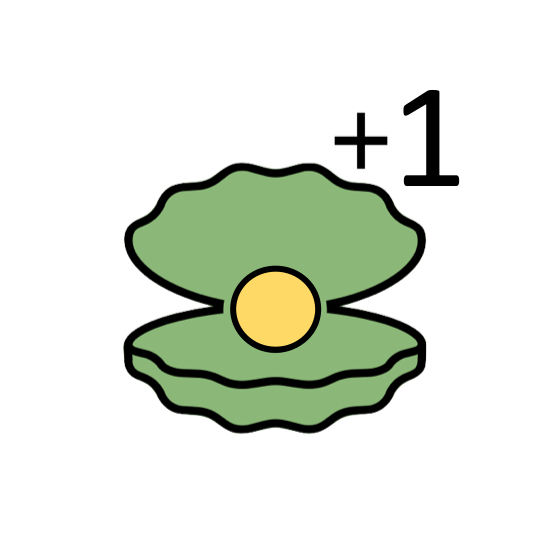
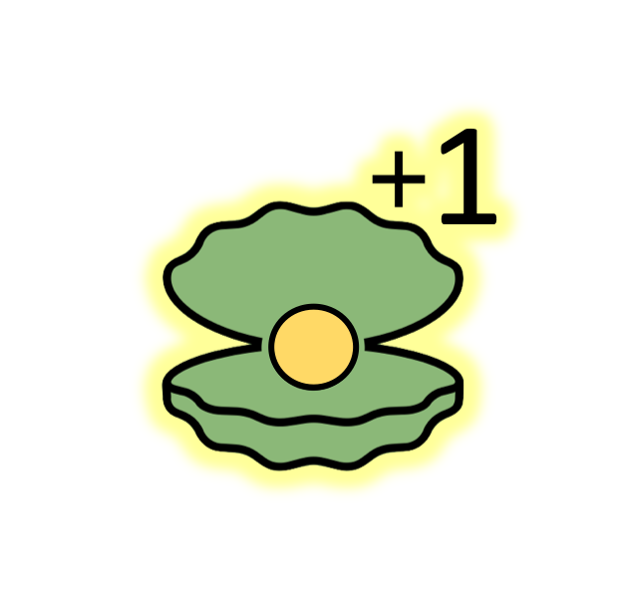
yoav_todos_3.12

Changed region(s): [[0.2133, 0.1501, 0.8226, 0.8105], [0.457, 0.4803, 0.5179, 0.5103]]

diff --git a/two-stage-decision-master/experiment.js b/two-stage-decision-master/experiment.js
@@ -1,9 +1,6 @@
-
-
 /* ************************************ */
 /* Define helper functions */
 /* ************************************ */
-
 
 var getInstructFeedback = function() {
 	return '<div class = centerbox><p class = center-block-text>' + feedback_instruct_text +
@@ -132,9 +129,13 @@ var change_phase = function() {
 /*
 Generate first stage stims. Takes in an array of images and colors (which change between practice anad test)
 */
+
+/* yoav : added 4 stimulus to cover all vartion of first stage */
 var get_fs_stim = function(images, colors) {
 	var fs_stim = [{
-		stimulus: "<img class = 'background_images' src= '" + background_Image_stage_1 +"'> </img></div>"+
+		stimulus:
+		 "<img class = 'background_images' src= '" + background_Image_stage_1 +"'> </img></div>"+
+
 			"<div class = decision-left style='background:" + colors[0] + "; '>" +
 			"<img class = 'decision-stim' src= '" + images[0] + "'></img>" +
 			"<img class = 'strategy_stim' src= '" + strategy_stim[2] +"'> </img></div>" +
@@ -144,7 +145,9 @@ var get_fs_stim = function(images, colors) {
 			"<img class = 'strategy_stim' src= '" + strategy_stim[0] +"'> </img></div>",
 		stim_order: [0, 0]
 	}, {
-		stimulus: "<img class = 'background_images' src= '" + background_Image_stage_1 +"'> </img></div>"+
+		stimulus:
+			"<img class = 'background_images' src= '" + background_Image_stage_1 +"'> </img></div>"+
+
 			"<div class = decision-left style='background:" + colors[0] + "; '>" +
 			"<img class = 'decision-stim' src= '" + images[0] + "'></img>" +
 			"<img class = 'strategy_stim' src= '" + strategy_stim[1] +"'> </img></div>" +
@@ -155,8 +158,10 @@ var get_fs_stim = function(images, colors) {
 		stim_order: [1, 1]
 
 	}, {
-		stimulus: "<img class = 'background_images' src= '" + background_Image_stage_1 +"'> </img></div>"+
-		"<div class = decision-left style='background:" + colors[0] + "; '>" +
+		stimulus:
+			"<img class = 'background_images' src= '" + background_Image_stage_1 +"'> </img></div>"+
+
+			"<div class = decision-left style='background:" + colors[0] + "; '>" +
 			"<img class = 'decision-stim' src= '" + images[6] + "'></img>" +
 			"<img class = 'strategy_stim' src= '" + strategy_stim[1] +"'> </img></div>" +
 
@@ -165,8 +170,10 @@ var get_fs_stim = function(images, colors) {
 			"<img class = 'strategy_stim' src= '" + strategy_stim[2] +"'> </img></div>",
 		stim_order: [1, 0]
 	},{
-		stimulus: "<img class = 'background_images' src= '" + background_Image_stage_1 +"'> </img></div>"+
-		"<div class = decision-left style='background:" + colors[0] + "; '>" +
+		stimulus:
+			"<img class = 'background_images' src= '" + background_Image_stage_1 +"'> </img></div>"+
+
+			"<div class = decision-left style='background:" + colors[0] + "; '>" +
 			"<img class = 'decision-stim' src= '" + images[6] + "'></img>" +
 			"<img class = 'strategy_stim' src= '" + strategy_stim[2] +"'> </img></div>" +
 
@@ -183,28 +190,23 @@ var get_fs_stim = function(images, colors) {
 /*
 Generate second stage stims. Takes in an array of images and colors (which change between practice and test)
 */
+/* yoav : 4 possible second stage choices*/
 var get_ss_stim = function(images, colors) {
 	var ss_stim_array = [
 		["<img class = 'background_images' src= '" + background_Image_stage_2_green +"'> </img></div>"+
-
 			"<img class = 'decision-left-ss' src= '" + images[2] + "'></img></div>" +
-
 			"<img class = 'decision-right-ss' src= '" + images[3] + "'></img></div>",
+
 			"<img class = 'background_images' src= '" + background_Image_stage_2_green +"'> </img></div>"+
-
 			"<img class = 'decision-left-ss' src= '" + images[3] + "'></img></div>" +
-
 			"<img class = 'decision-right-ss' src= '" + images[2] + "'></img></div>"
 		],
 		["<img class = 'background_images' src= '" + background_Image_stage_2_purpel +"'> </img></div>"+
-
 			"<img class = 'decision-left-ss' src= '" + images[4] + "'></img></div>" +
-
 			"<img class = 'decision-right-ss' src= '" + images[5] + "'></img></div>",
+
 			"<img class = 'background_images' src= '" + background_Image_stage_2_purpel +"'> </img></div>"+
-
 			"<img class = 'decision-left-ss' src= '" + images[5] + "'></img></div>" +
-
 			"<img class = 'decision-right-ss' src= '" + images[4] + "'></img></div>"
 		]
 	]
@@ -235,11 +237,13 @@ the other stimulus fades. This function accomplishes this by creating a new html
 with appropriate handles to start the relevant animations.
 Also updates the global variables choice, first_selected and first_notselected, which are used in the next function
 */
+/*
+ */
 var get_first_selected = function() {
 	var first_stage_trial = jsPsych.data.getLastTrialData()
 	var i = first_stage_trial.key_press;
 	var choice = choices.indexOf(first_stage_trial.key_press)
-	console.log("choice first = " + stim_ids)
+	// console.log("choice first = " + stim_ids)
 	if (i == 37 && stim_ids[0] == 1 || i == 39 && stim_ids[0] == 0){
 		var sum = stim_ids[0] + stim_ids[1]
 		first_selected = stim_ids[choice]
@@ -377,6 +381,7 @@ var get_second_selected = function() {
 	var second_stage_trial = jsPsych.data.getLastTrialData()
 	var choice = choices.indexOf(second_stage_trial.key_press)
 	// console.log("stim_ids- "+ stim_ids);
+	console.log("choice "  + choice )
 	if (stim_ids[0] == 2 || stim_ids[0] == 3 ){
 		var background = background_Image_stage_2_green
 	}else {
@@ -388,13 +393,15 @@ var get_second_selected = function() {
 		jsPsych.data.addDataToLastTrial({
 			stim_selected: second_selected
 		})
+		if (choice == 0){
 		return "<img class = 'background_images' src= '" + background +"'> </img></div>"+
-		"<div class = '" + stim_side[choice] + " selected' style='background:" + curr_colors[
-				stage + 1] + "; '>" +
-			"<img class = 'decision-sss' src= '" + curr_images[second_selected] + "'></div>" +
-			"<div class = 'fade " + stim_side[1 - choice] + "' style='background:" + curr_colors[stage + 1] +
-			"; '>" +
-			"<img class = 'decision-sss' src= '" + curr_images[second_notselected] + "'></div>"
+			"<img class = 'decision-left-sss_yes' src= '" + curr_images[second_selected] + "'></img></div>" +
+			"<img class = 'decision-right-sss_not' src= '" + curr_images[second_notselected] + "'></img></div>"
+		}else {
+			return "<img class = 'background_images' src= '" + background +"'> </img></div>"+
+				"<img class = 'decision-left-sss_not' src= '" + curr_images[second_notselected] + "'></img></div>" +
+				"<img class = 'decision-right-sss_yes' src= '" + curr_images[second_selected] + "'></img></div>"
+		}
 	} else {
 		second_selected = -1
 		jsPsych.data.addDataToLastTrial({
@@ -427,12 +434,13 @@ Otherwise, check the FB_matrix which determines the reward probabilities for eac
 After FB, the FB_atrix is updated.
 */
 var get_feedback = function() {
-	 console.log("second_selected = " + second_selected)
-	 console.log("second_selected = " + (second_selected-2))
-	 console.log("current_trial = " + current_trial)
-	 console.log("prob = " + FB_matrix[second_selected - 2][current_trial])
-	 console.log(FB_matrix[second_selected - 2])
-	 console.log(FB_matrix)
+	//  console.log("second_selected = " + second_selected)
+	//  console.log("second_selected = " + (second_selected-2))
+	//  console.log("current_trial = " + current_trial)
+	//  try {	 console.log("prob = " + FB_matrix[second_selected - 2][current_trial])
+ // }catch{}
+	//  console.log(FB_matrix[second_selected - 2])
+	//  console.log(FB_matrix)
 
 	if (second_selected == -1) {
 		return "<div class = centerbox><div class = center-text>" +
@@ -442,7 +450,7 @@ var get_feedback = function() {
 		var bg_imf = 0
 		// update_FB();
 		FB = 1
-		console.log("1")
+		// console.log("1")
 		total_score += 1
 		if (stim_ids[0] == 2 || stim_ids[0] == 3){
 				fb_img = terminal_state_img[0]
@@ -462,7 +470,7 @@ var get_feedback = function() {
 	} else {
 	//	update_FB();
 		FB = 0
-		console.log("0")
+		// console.log("0")
 		if (stim_ids[0] == 2 ||stim_ids[0] == 3){
 			 	fb_img = terminal_state_img[1]
 				bg_img = background_Image_stage_2_green
@@ -824,6 +832,18 @@ var practice_images =
 		"img_s_y/blue_boat_right.png"
 	]
 
+	var glow_images =
+		[
+			"img_s_y/blue_boat_left_glow.png",
+			"img_s_y/orange_boat_right_glow.png",
+			"img_s_y/green_shell_1_glow.png",
+			"img_s_y/green_shell_2_glow.png",
+			"img_s_y/purpel_shell_1_glow.png",
+			"img_s_y/purpel_shell_2_glow.png",
+			"img_s_y/orange_boat_left_glow.png",
+			"img_s_y/blue_boat_right_glow.png"
+		]
+
 	//*S* set background Image
 var background_Image_stage_1 = "img_s_y/background_1.png"
 var background_Image_stage_2_green = "img_s_y/green_background.png"
@@ -844,6 +864,7 @@ jsPsych.pluginAPI.preloadImages(background_Image_stage_1)
 jsPsych.pluginAPI.preloadImages(background_Image_stage_2_green)
 jsPsych.pluginAPI.preloadImages(background_Image_stage_2_purpel)
 jsPsych.pluginAPI.preloadImages(terminal_state_img)
+jsPsych.pluginAPI.preloadImages(glow_images)
 
 
 var curr_images =  practice_images

diff --git a/two-stage-decision-master/style.css b/two-stage-decision-master/style.css
@@ -11,7 +11,7 @@
 .selected{
 /*	-webkit-animation: movetop 1s forwards; */
 /*	animation: movetop 1s forwards; */
-	border: 8px
+	border: 3px
   dashed #ffff66;
 /*  dashed #000000;*/
 }
@@ -39,7 +39,7 @@
 
 .decision-stim {
   display: block;
-  height: 16vw;
+  height: 20vw;
 	position:absolute;
 	top:50%;
 	left:50%;
@@ -50,7 +50,7 @@
 	width: 18vw;
 	height: 18vw;
   position:absolute;
-  top:50%;
+  top:45%;
   left:50%;
   margin-right:-50%;
   transform: translate(-125%,-5%);
@@ -60,7 +60,7 @@
 	width: 18vw;
 	height: 18vw;
   position:absolute;
-  top:50%;
+  top:45%;
   left:50%;
   margin-right:-50%;
   transform: translate(25%,-5%);
@@ -92,7 +92,7 @@
   display: block;
   height: 10vw;
 	position:absolute;
-	top:-20%;
+	top:-25%;
 	left:50%;
 	transform: translate(-50%,-25%);
 }
@@ -139,34 +139,61 @@
 
 
 .decision-left-ss {
-	/* width: 30vw; */
-  display: block;
-	height: 20vw;
-  position:absolute;
-  top:30.5%;
-  left:18%;
-  /* margin-right:-50%; */
-  /* transform: translate(20%,0%); */
-}
-
-
-.decision-right-ss {
-	/* width: 30vw; */
-  display: block;
   height: 20vw;
   position:absolute;
-  top:30.5%;
-  left:44%;
-  /* margin-right:-50%; */
-  /* transform: translate(15%,0%); */
+  top:35%;
+  left:50%;
+  margin-right:-50%;
+  transform: translate(-85%,-5%);
+}
+/* -80 bigger means go right*/
+
+.decision-right-ss {
+	height: 20vw;
+  position:absolute;
+  top:35%;
+  left:50%;
+  margin-right:-50%;
+  transform: translate(-10%,-5%);
+}
+/* -10 smaller means go left*/
+
+.decision-left-sss_not {
+  height: 20vw;
+  position:absolute;
+  top:35%;
+  left:50%;
+  margin-right:-50%;
+  transform: translate(-85%,-5%);
 }
 
+.decision-left-sss_yes {
+  height: 20vw;
+  position:absolute;
+  top:35%;
+  left:50%;
+  margin-right:-50%;
+  transform: translate(-85%,-5%);
+  border: 3px
+  dashed #ffff66;
+}
 
-.decision-sss {
-  display: block;
-  height:20vw;
-	position:absolute;
-	top:37%%;
-	left:50%;
-	transform: translate(-50%,-50%);
+.decision-right-sss_not {
+	height: 20vw;
+  position:absolute;
+  top:35%;
+  left:50%;
+  margin-right:-50%;
+  transform: translate(-10%,-5%);
+}
+
+.decision-right-sss_yes {
+  height: 20vw;
+  position:absolute;
+  top:35%;
+  left:50%;
+  margin-right:-50%;
+  transform: translate(-10%,-5%);
+  border: 3px
+  dashed #ffff66;
 }
